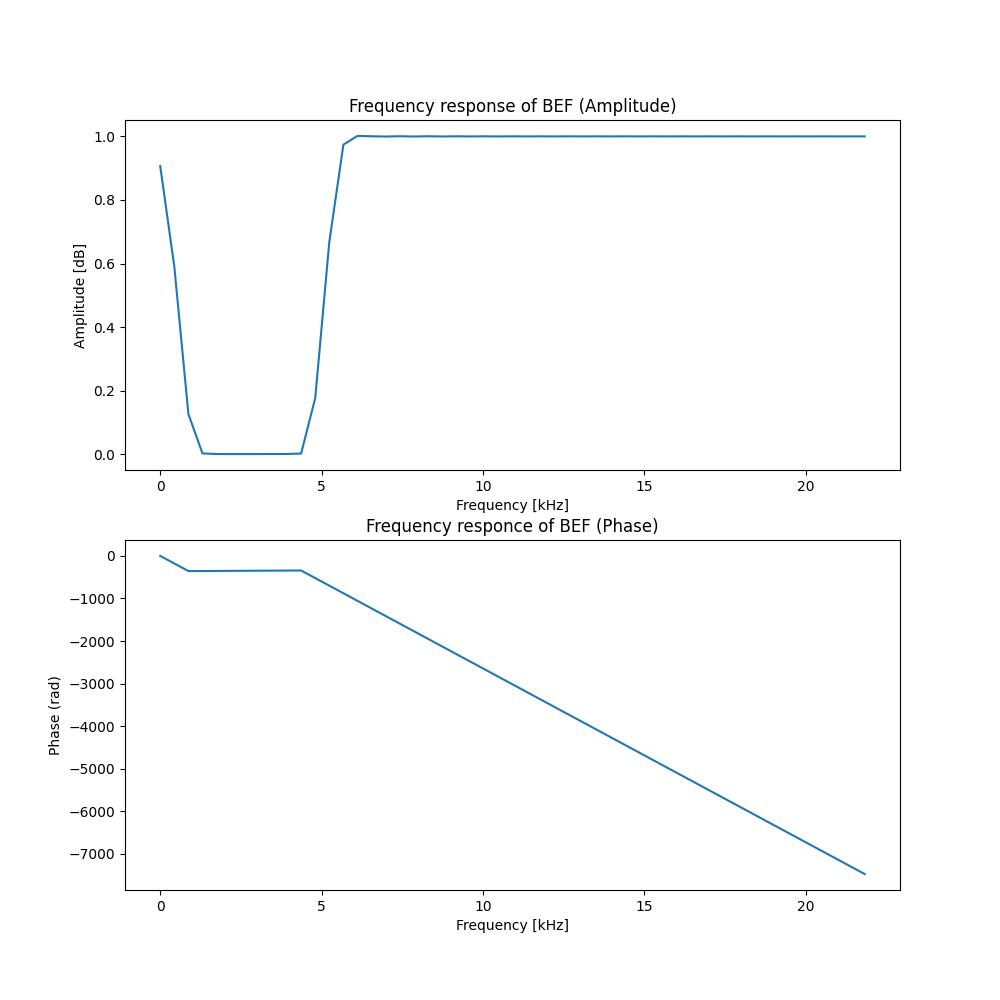
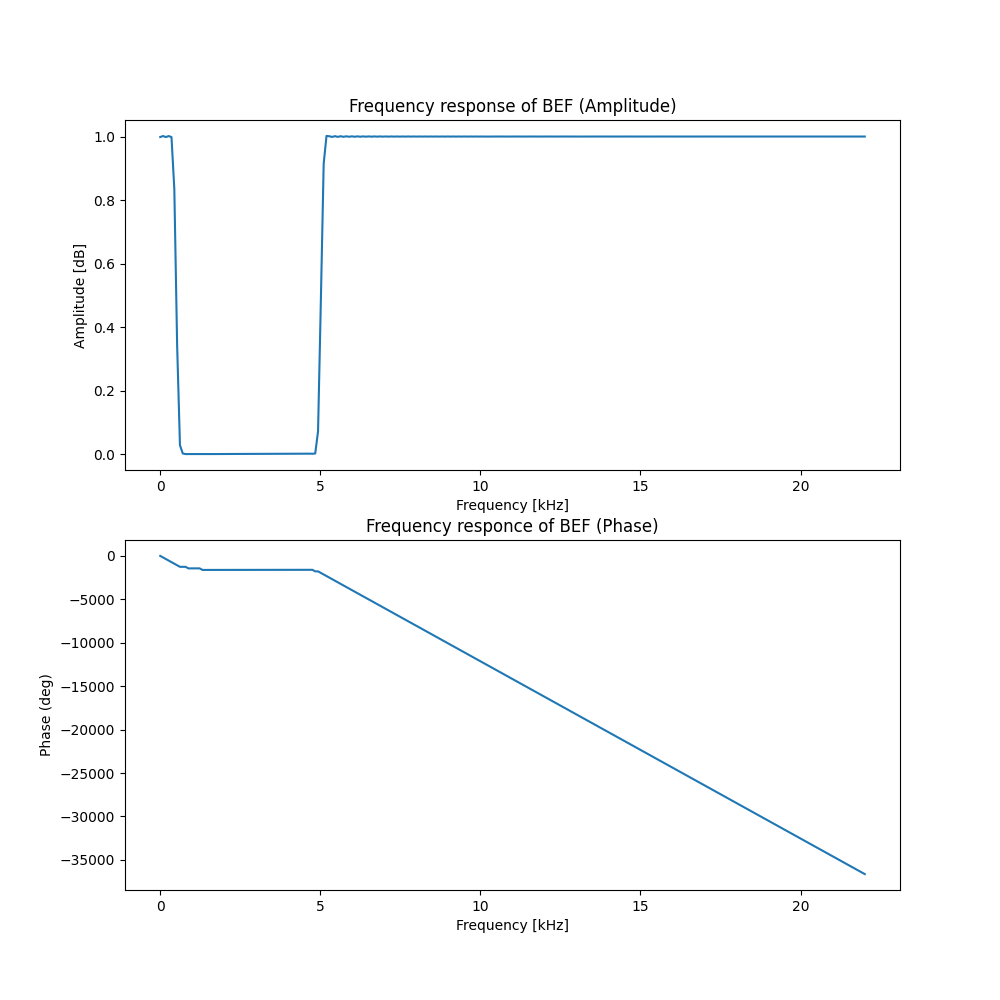
Fix based on advice
- 軸のラベルをradからdegに修正
- フィルタに相当する関数をfor文ではなくnumpyの配列で実現
- 出力ファイルを指定できるように修正
- 畳み込み演算をfor文ではなくnumpy.lib.stride_tricks.as_stridedで実現
- tapが偶数のときに位相特性が崩れる問題を修正

diff --git a/ex2/k_ogita/main.py b/ex2/k_ogita/main.py
@@ -9,24 +9,27 @@ import matplotlib.pyplot as plt
 import numpy as np
 import soundfile as sf
 from mpl_toolkits.axes_grid1 import make_axes_locatable
+import os
+from numpy.lib.stride_tricks import as_strided
 
 import spec as s
 
 
-def sinc(x):
+def sinc(x, norm=False):
     """
     Sinc function.
 
     Args:
         x (float): Input x.
+        norm (bool) : Whether to use the normalized sinc function.
 
     Returns:
         float: Output of sinc function.
     """
-    if x == 0.0:
-        return 1.0
+    if norm == True:
+        return np.sinc(x)
     else:
-        return np.sin(x) / x
+        return np.sinc(x / np.pi)
 
 
 def conv(sig1, sig2):
@@ -41,13 +44,10 @@ def conv(sig1, sig2):
         ndarray: Convoluted siganl.
     """
     conv_length = len(sig1) + len(sig2) - 1
-    conv_sig = np.zeros(conv_length, dtype=np.float32)
-
-    for n in range(len(sig1)):
-        conv_sig[n : n + len(sig2)] += sig1[n] * sig2
-
+    conv_sig = np.zeros(conv_length)
+    strided_sig1 = as_strided(sig1, shape=(conv_length, len(sig2)), strides=(sig1.itemsize, sig1.itemsize))
+    conv_sig += np.dot(strided_sig1, sig2)
     return conv_sig
-
 
 def bef(cf1, cf2, tap, samplerate):
     """
@@ -69,11 +69,10 @@ def bef(cf1, cf2, tap, samplerate):
     # Converts normalized cut-off frequency to angular frequency
     cw1 = 2 * np.pi * cf1 / samplerate
     cw2 = 2 * np.pi * cf2 / samplerate
-
-    h = []
-    for i in range(-tap // 2, tap // 2 + 1):
-        h.append(sinc(np.pi * i) + (cw1 * sinc(cw1 * i) - cw2 * sinc(cw2 * i)) / np.pi)
-    return np.array(h) * window
+    
+    i_lis = np.arange(-tap // 2, tap // 2 + 1)
+    h = sinc(np.pi * i_lis) + (cw1 * sinc(cw1 * i_lis) - cw2 * sinc(cw2 * i_lis)) / np.pi
+    return h * window
 
 
 def main():
@@ -87,6 +86,9 @@ def main():
     )
     parser.add_argument(
         "-o", "--overlap", help="the rate of overlap", default=0.8, type=float
+    )
+    parser.add_argument(
+        "-e", "--export_name", help="name of output audio file", default=None, type=str
     )
     parser.add_argument(
         "-cf",
@@ -106,6 +108,8 @@ def main():
     args = parser.parse_args()
 
     sound_file = args.path
+    # Get the filename of data from the path
+    file_name = os.path.splitext(os.path.basename(sound_file))[0]
     # Window size
     framesize = args.framesize
     # Rate of overlap
@@ -121,6 +125,8 @@ def main():
     # Calculate the playback time of the input waveform
     time = len(data) / samplerate
 
+    export_name = args.export_name
+
     # Generate a spectrogram from the input waveform
     original_spec = s.stft(data, framesize, overlap)
     # Convert the spectrogram into a dB-scaled spectrogram
@@ -135,14 +141,14 @@ def main():
     # Convert the spectrogram into a dB-scaled spectrogram
     db_filtered_spec = s.spectrogram_to_db(filtered_spec, framesize)
 
+    disp_lim = tap // 2 + 1 if tap % 2 != 0 else tap // 2
     # Convert　the filter to frequency domain
     filter_freq = np.fft.fft(filter)
-    filter_abs = np.abs(filter_freq)[: tap // 2 + 1]
-    # filter_amp = 20 * np.log10(filter_abs)
-    filter_phase = np.unwrap(np.angle(filter_freq))[: tap // 2 + 1] * 180 / np.pi
+    filter_abs = np.abs(filter_freq)[: disp_lim]
+    filter_phase = np.unwrap(np.angle(filter_freq))[: disp_lim] * 180 / np.pi
 
-    freq = np.fft.fftfreq(tap, d=1.0 / samplerate)[: tap // 2 + 1] / 1000
-
+    freq = np.fft.fftfreq(tap, d=1.0 / samplerate)[: disp_lim] / 1000
+    
     fig1, ax1 = plt.subplots(2, 1, figsize=(10, 10))
     # Plot frequency response of BEF
     ax1[0].plot(freq, filter_abs)
@@ -153,7 +159,7 @@ def main():
     ax1[1].plot(freq, filter_phase)
     ax1[1].set_title("Frequency responce of BEF (Phase)")
     ax1[1].set_xlabel("Frequency [kHz]")
-    ax1[1].set_ylabel("Phase (rad)")
+    ax1[1].set_ylabel("Phase (deg)")
 
     fig1.savefig("freq_responce.png")
 
@@ -199,7 +205,10 @@ def main():
     istft_wave = s.istft(filtered_spec, framesize, overlap)
 
     # Create audio files from re-synthesized waveforms
-    sf.write("re-miku.wav", istft_wave, samplerate)
+    if export_name == None:
+        sf.write(f"re-{file_name}.wav", istft_wave, samplerate)
+    else:
+        sf.write(f"{export_name}" if export_name.endswith('.wav') else f"{export_name}.wav", istft_wave, samplerate)
 
     # Plot re-synthesized waveform
     fig3, ax3 = plt.subplots(1, 1, figsize=(10, 10))

diff --git a/ex2/k_ogita/spec.py b/ex2/k_ogita/spec.py
@@ -9,6 +9,7 @@ import matplotlib.pyplot as plt
 import numpy as np
 import soundfile as sf
 from mpl_toolkits.axes_grid1 import make_axes_locatable
+import os
 
 
 def stft(data, framesize, overlap):
@@ -98,14 +99,19 @@ def main():
     parser.add_argument(
         "-o", "--overlap", help="the rate of overlap", default=0.8, type=float
     )
+    parser.add_argument(
+        "-e", "--export_name", help="name of output audio file", default=None, type=str
+    )
     args = parser.parse_args()
 
     sound_file = args.path
+    # Get the filename of data from the path
+    file_name = os.path.splitext(os.path.basename(sound_file))[0]
     # Window size
     framesize = args.framesize
     # Rate of overlap
     overlap = args.overlap
-    print(overlap, framesize)
+    export_name = args.export_name
     # Get waveform and sampling rate from the audio file
     data, samplerate = sf.read(sound_file)
     # Calculate the playback time of the input waveform
@@ -147,17 +153,15 @@ def main():
     # Compute the original waveform from the spectrogram
     istft_wave = istft(spectrogram, framesize, overlap)
     # Create audio files from re-synthesized waveforms
-    sf.write("re-miku.wav", istft_wave, samplerate)
+    if export_name == None:
+        sf.write(f"re-{file_name}", istft_wave, samplerate)
+    else:
+        sf.write(f"{export_name}" if export_name.endswith('.wav') else f"{export_name}.wav", istft_wave, samplerate)
 
     # Plot re-synthesized waveform
     ax3 = fig.add_subplot(3, 1, 3)
     # Create a time axis
     t_3 = np.arange(0, len(istft_wave)) / samplerate
-    # if len(istft_wave) > len(data):
-    #    data = np.append(data, [0]*(len(istft_wave)-len(data)))
-    # else:
-    #    istft_wave = np.append(istft_wave, [0]*(len(data)-len(istft_wave)))
-    # print(np.mean((data-istft_wave)**2))
     ax3.plot(t_3, istft_wave)
     plt.title("Re-Synthesized signal")
     plt.xlabel("Time[s]")
